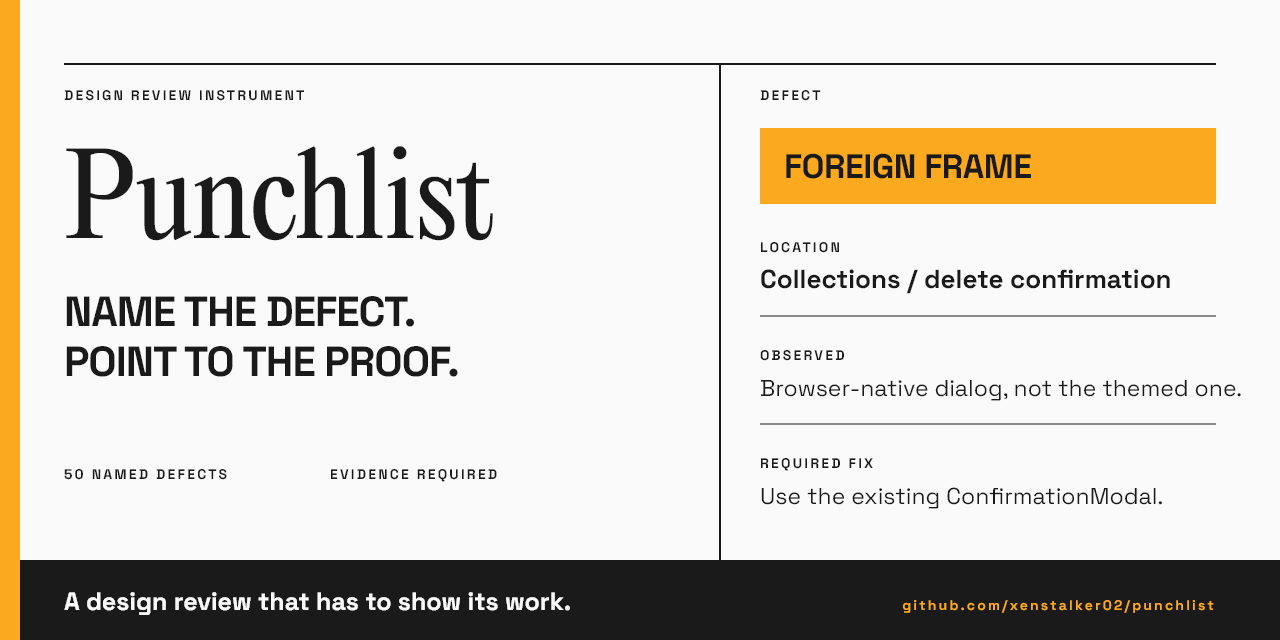
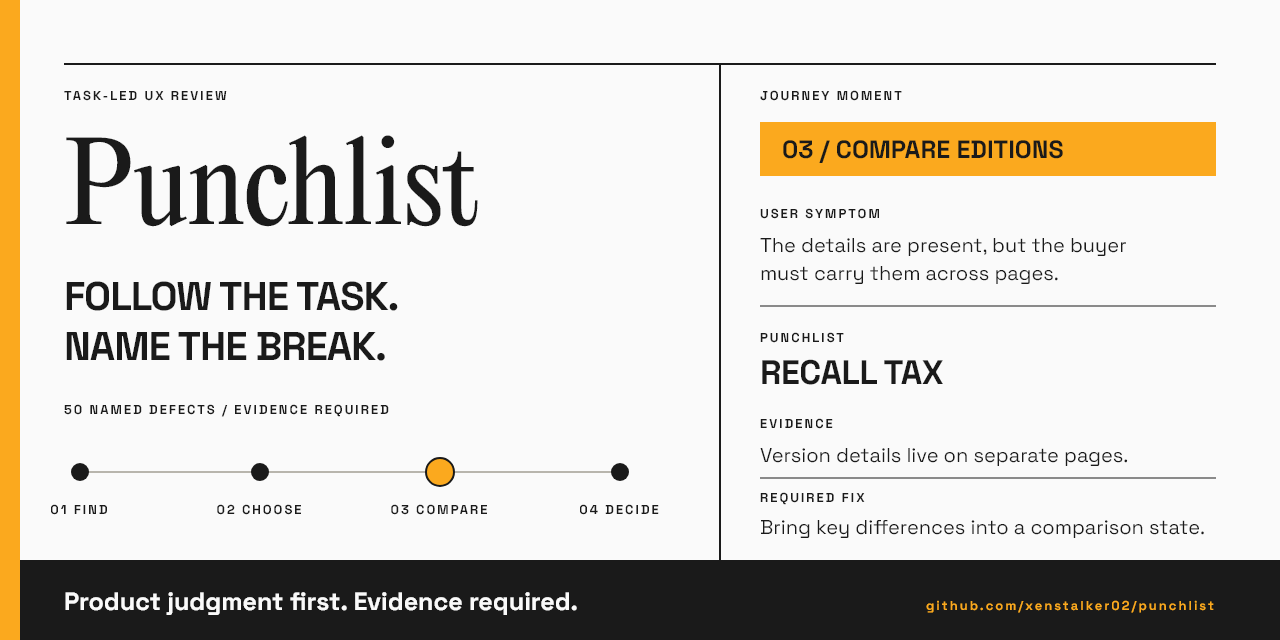
Align Punchlist with task-led UX audits

diff --git a/README.md b/README.md
@@ -1,14 +1,14 @@
 # Punchlist
 
-![Punchlist — named-defect design audit](assets/social-preview.png)
+![Punchlist — task-led UX audit with named defects and evidence](assets/social-preview.png)
 
 [![Validate](https://github.com/xenstalker02/punchlist/actions/workflows/validate.yml/badge.svg)](https://github.com/xenstalker02/punchlist/actions/workflows/validate.yml)
 
-**A set of instructions an AI coding agent loads before it inspects a build: 50 named interface defects, and one question asked of each. Is this one present here, and where.**
+**Punchlist is a task-led UX audit for AI coding agents. It follows a real user journey, checks that journey against 50 named defects across interface, content, and behavior, and reports only the breakdowns it can prove.**
 
-The agent does the walking. The list decides what counts as a defect and what evidence it has to produce, and it refuses to report anything it cannot point at.
+The default `experience` profile starts with a user, a task, an entry point, and a device or state. It looks for the moments where comprehension, decision-making, trust, or recovery break down. Use `implementation` when the request is specifically about accessibility, semantics, code, or design-system QA.
 
-That constraint is the whole design. Ask an AI to "review this screen" and you get a plausible essay nobody can act on or dispute. Ask it which of 50 named defects are present, with the location and the proof for each and the rest left out entirely, and it has to commit to something checkable.
+Both profiles keep the same finding data: defect, surface, symptom, evidence, severity, and fix. The `experience` profile turns that record into a task-first report, with technical proof beside it but not leading it.
 
 The name comes from construction, where a building does not hand over until the punch list is cleared. An inspector walks the site and writes down every defect with a location and a required fix. Not "the lobby feels unfinished," but *outlet plate missing, east wall, second floor*.
 
@@ -42,7 +42,7 @@ Or clone it directly for Claude Code:
 git clone https://github.com/xenstalker02/punchlist.git ~/.claude/skills/punchlist
 ```
 
-Then ask it to audit a screen, a flow, or a build. Three things make the result better:
+Then describe the user, task, entry point, state or device, and the output profile you need. If you do not name a profile, Punchlist uses `experience`. Three things make the result better:
 
 1. **Give it the running app if you can.** A live browser pass sees computed styles, focus, and cascade losses; source alone cannot. Both examples in the next section are invisible in source, which reads as correct in each case.
 2. **Declare the severity basis before the sweep**, whether that's absolute usability, demo readiness, or something else. One run that did not state the lens first ranked keyboard-unreachable navigation below two cosmetic issues. That ranking made sense for screen-recording readiness and would have been misleading as a general usability judgment.

diff --git a/CHANGELOG.md b/CHANGELOG.md
@@ -11,3 +11,9 @@ All notable changes to Punchlist will be recorded here.
 - A schema-valid finding from the Compass collections audit.
 - Contribution, security, agent, issue, and pull-request guidance.
 - Social-preview source and export.
+- An experience-review template for audience-facing task and journey reports.
+
+### Changed
+
+- Made the task-led `experience` profile the default while retaining an explicit `implementation` profile for technical QA.
+- Reframed the README and social preview around the user journey, symptom, named defect, and evidence model.
